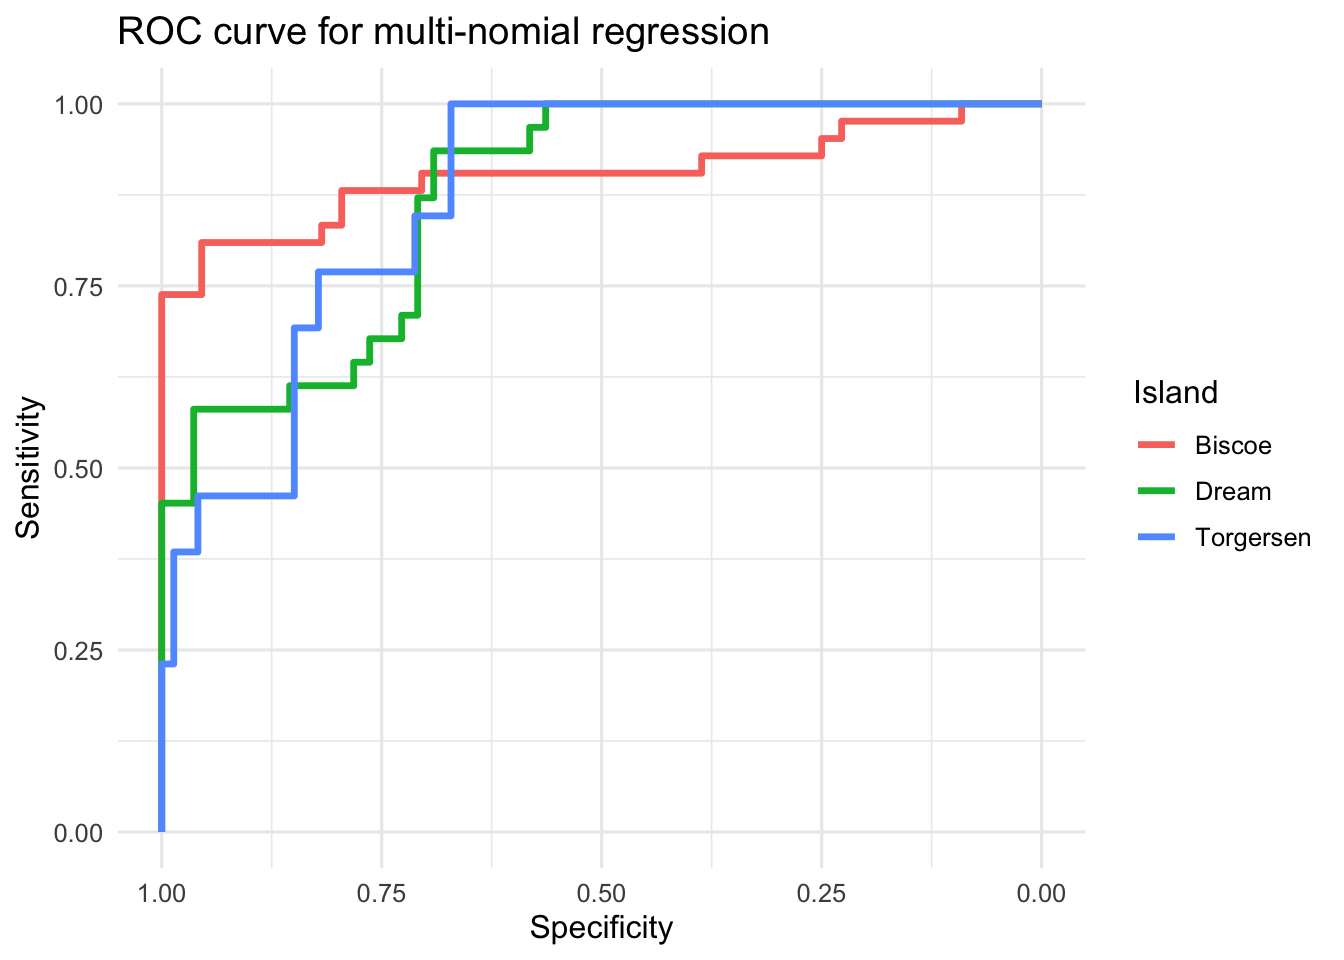
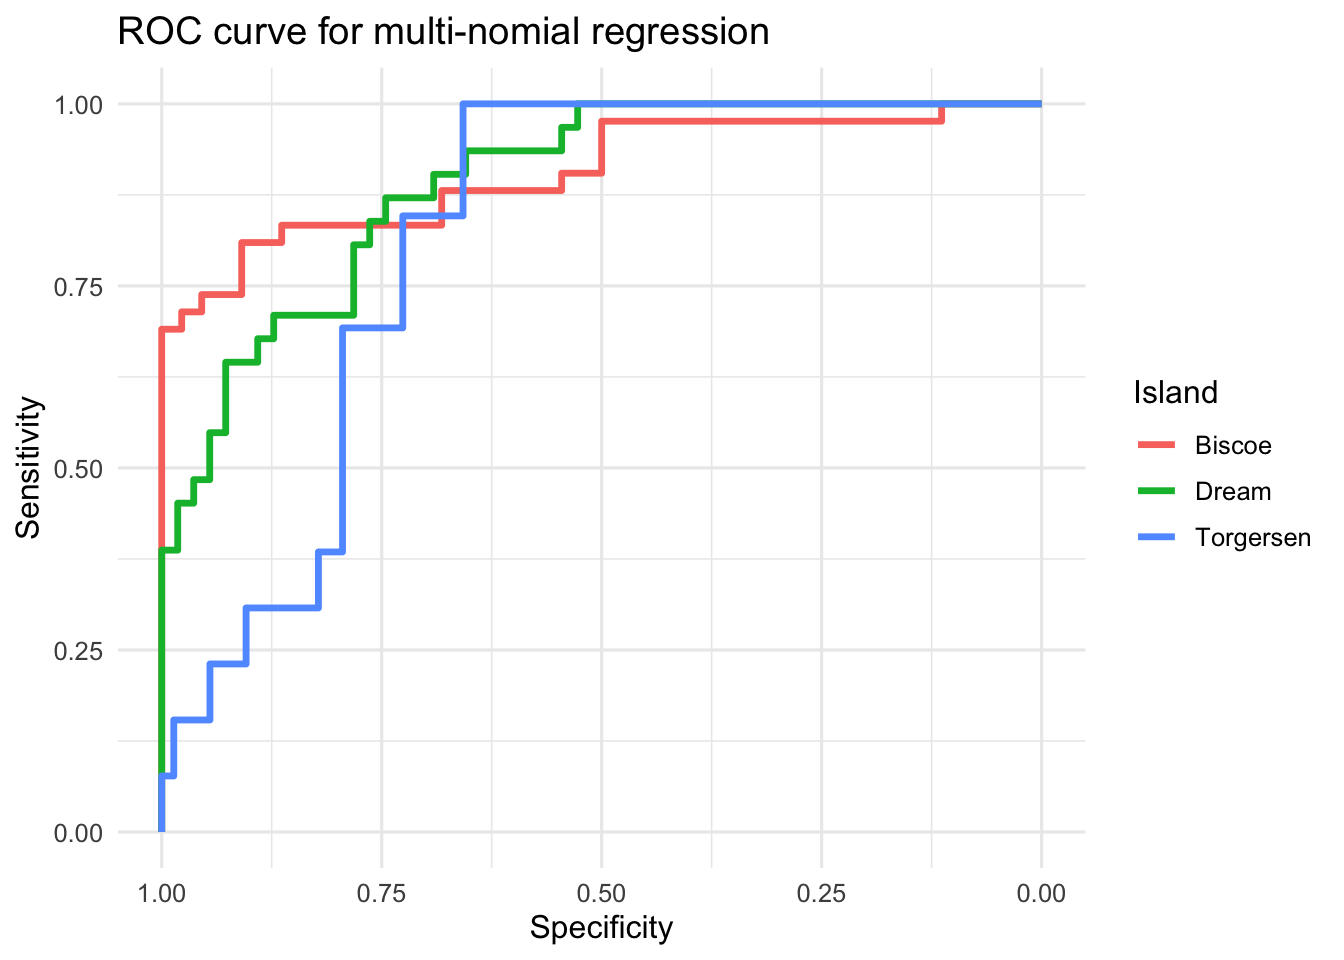
update homework 4

Changed region(s): [[0.0938, 0.0938, 0.625, 0.8125], [0.0938, 0.25, 0.1875, 0.3438], [0.6875, 0.0938, 0.7188, 0.125]]

diff --git a/homework_04/index.html b/homework_04/index.html
@@ -194,9 +194,9 @@ P(Y = k | {\bf x}) = \frac{\pi_{k} f_{k1}(x_{1}) f_{k2}(x_{2}) \cdots f_{kp}(x_{
 <div class="cell-output cell-output-stdout">
 <pre><code>           Truth
 Prediction  Biscoe Dream Torgersen
-  Biscoe        34     3         0
-  Dream          7    25         8
-  Torgersen      1     3         5</code></pre>
+  Biscoe        31     2         2
+  Dream         10    29         9
+  Torgersen      1     0         2</code></pre>
 </div>
 <div class="sourceCode cell-code" id="cb3"><pre class="sourceCode r code-with-copy"><code class="sourceCode r"><span id="cb3-1"><a href="#cb3-1" aria-hidden="true" tabindex="-1"></a>(mr_class_preds <span class="sc">%&gt;%</span></span>
 <span id="cb3-2"><a href="#cb3-2" aria-hidden="true" tabindex="-1"></a>    <span class="fu">accuracy</span>(truth,.pred_class))</span></code><button title="Copy to Clipboard" class="code-copy-button"><i class="bi"></i></button></pre></div>
@@ -204,7 +204,7 @@ Prediction  Biscoe Dream Torgersen
 <pre><code># A tibble: 1 × 3
   .metric  .estimator .estimate
   &lt;chr&gt;    &lt;chr&gt;          &lt;dbl&gt;
-1 accuracy multiclass     0.744</code></pre>
+1 accuracy multiclass     0.721</code></pre>
 </div>
 <div class="sourceCode cell-code" id="cb5"><pre class="sourceCode r code-with-copy"><code class="sourceCode r"><span id="cb5-1"><a href="#cb5-1" aria-hidden="true" tabindex="-1"></a><span class="co"># plot ROC</span></span>
 <span id="cb5-2"><a href="#cb5-2" aria-hidden="true" tabindex="-1"></a>mr_class_preds <span class="sc">%&gt;%</span></span>
@@ -223,7 +223,7 @@ Prediction  Biscoe Dream Torgersen
 <pre><code># A tibble: 1 × 3
   .metric .estimator .estimate
   &lt;chr&gt;   &lt;chr&gt;          &lt;dbl&gt;
-1 roc_auc hand_till      0.860</code></pre>
+1 roc_auc hand_till      0.848</code></pre>
 </div>
 </div>
 <p>What is your overall assessment of the preformance of the multi-nomial regression model for the data? Was it more difficult to make accurate predictions for one of the islands compared with the others?</p>
@@ -256,7 +256,10 @@ Prediction  Biscoe Dream Torgersen
 <span id="cb8-5"><a href="#cb8-5" aria-hidden="true" tabindex="-1"></a></span>
 <span id="cb8-6"><a href="#cb8-6" aria-hidden="true" tabindex="-1"></a>xy_df <span class="ot">&lt;-</span> <span class="fu">tibble</span>(<span class="at">x=</span>x,<span class="at">y=</span>y)</span></code><button title="Copy to Clipboard" class="code-copy-button"><i class="bi"></i></button></pre></div>
 </div>
-<p>Use bootstrap resampling to estimate the standard error for the slope estimate in a linear regression model for the simulated data.</p>
+<ol type="a">
+<li><p>Use bootstrap resampling to estimate the standard error for the slope estimate in a linear regression model for the simulated data.</p></li>
+<li><p>Explain the results of the application of the bootstrap technique in the context of estimating the slope.</p></li>
+</ol>
 </section>
 </section>
 
